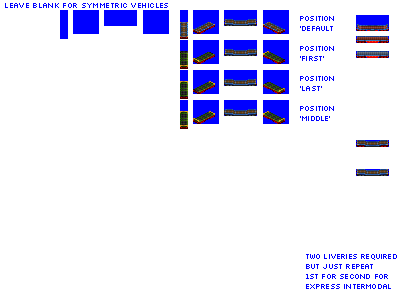
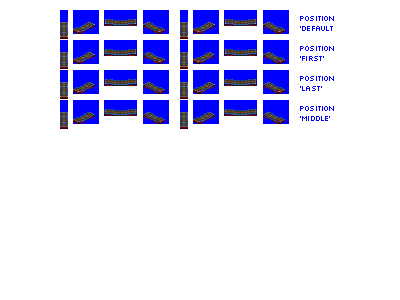
Change: add gen 4C and 5C low floor automobile carriers

diff --git a/src/vehicles/pony/low_floor_automobile_cars_pony.py b/src/vehicles/pony/low_floor_automobile_cars_pony.py
@@ -4,33 +4,51 @@ from train import AutomobileLowFloorCarConsist, AutomobileCarAsymmetric
 def main(roster_id, **kwargs):
     # --------------- standard gauge ---------------------------------------------------------------
     # intro gen 4
-
+    """
     consist = AutomobileLowFloorCarConsist(
-        roster_id=roster_id, base_numeric_id=14890, gen=4, subtype="B"
+        roster_id=roster_id,
+        roster_id_providing_module=kwargs["roster_id_providing_module"],
+        base_numeric_id=26720,
+        gen=4,
+        subtype="B",
     )
 
     consist.add_unit(
         type=AutomobileCarAsymmetric, chassis="2_axle_running_gear_only_24px"
     )
-
+    """
     consist = AutomobileLowFloorCarConsist(
-        roster_id=roster_id, base_numeric_id=14900, gen=4, subtype="C"
+        roster_id=roster_id,
+        roster_id_providing_module=kwargs["roster_id_providing_module"],
+        base_numeric_id=26730,
+        gen=4,
+        subtype="C",
+        sprites_complete=True,
     )
 
     consist.add_unit(
         type=AutomobileCarAsymmetric, chassis="4_axle_running_gear_only_32px"
     )
-
+    """
     consist = AutomobileLowFloorCarConsist(
-        roster_id=roster_id, base_numeric_id=14910, gen=5, subtype="B"
+        roster_id=roster_id,
+        roster_id_providing_module=kwargs["roster_id_providing_module"],
+        base_numeric_id=26740,
+        gen=5,
+        subtype="B",
     )
 
     consist.add_unit(
         type=AutomobileCarAsymmetric, chassis="2_axle_running_gear_only_24px"
     )
-
+    """
     consist = AutomobileLowFloorCarConsist(
-        roster_id=roster_id, base_numeric_id=14920, gen=5, subtype="C"
+        roster_id=roster_id,
+        roster_id_providing_module=kwargs["roster_id_providing_module"],
+        base_numeric_id=26750,
+        gen=5,
+        subtype="C",
+        sprites_complete=True,
     )
 
     consist.add_unit(

diff --git a/src/global_constants.py b/src/global_constants.py
@@ -22,8 +22,8 @@ wagon_module_name_stems = [
     "express_cars",
     "enclosed_automobile_cars",
     "automobile_cars",
-    # "low_floor_automobile_cars",
-    "double_deck_automobile_cars",  # order before other automobile cars as needed in simplified mode
+    "low_floor_automobile_cars",
+    "double_deck_automobile_cars",
     "reefer_cars_type_1",
     "reefer_cars_type_2",
     "reefer_cars_randomised",

diff --git a/src/rosters/pony.py b/src/rosters/pony.py
@@ -318,6 +318,7 @@ wagon_module_names_with_roster_ids = {
     "livestock_cars": "pony",
     "log_cars": "pony",
     "low_floor_intermodal_cars": "pony",
+    "low_floor_automobile_cars": "pony",
     "mail_cars": "pony",
     "manufacturing_parts_piece_goods_cars_randomised": "pony",
     "merchandise_box_cars": "pony",
